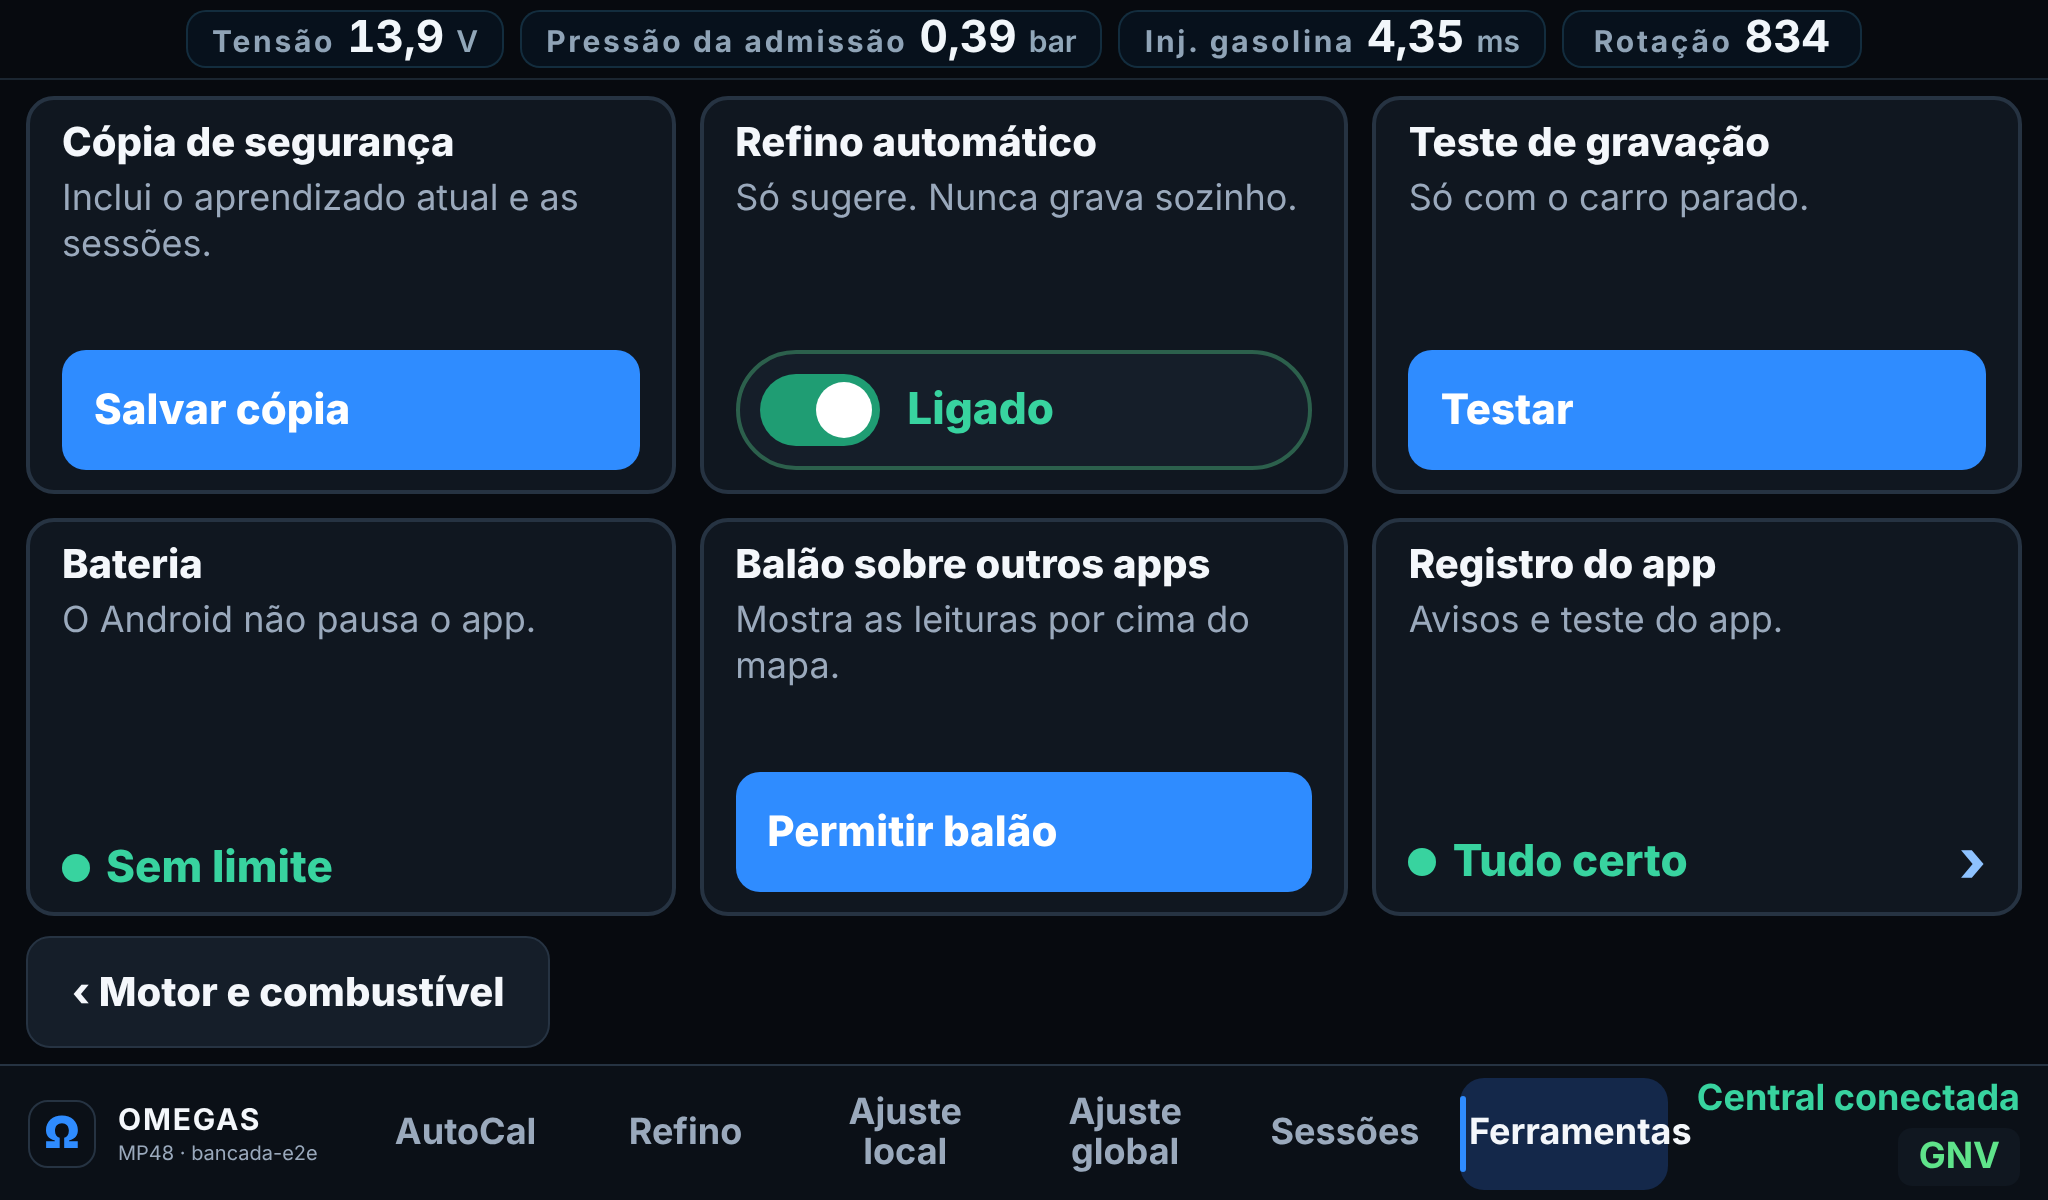
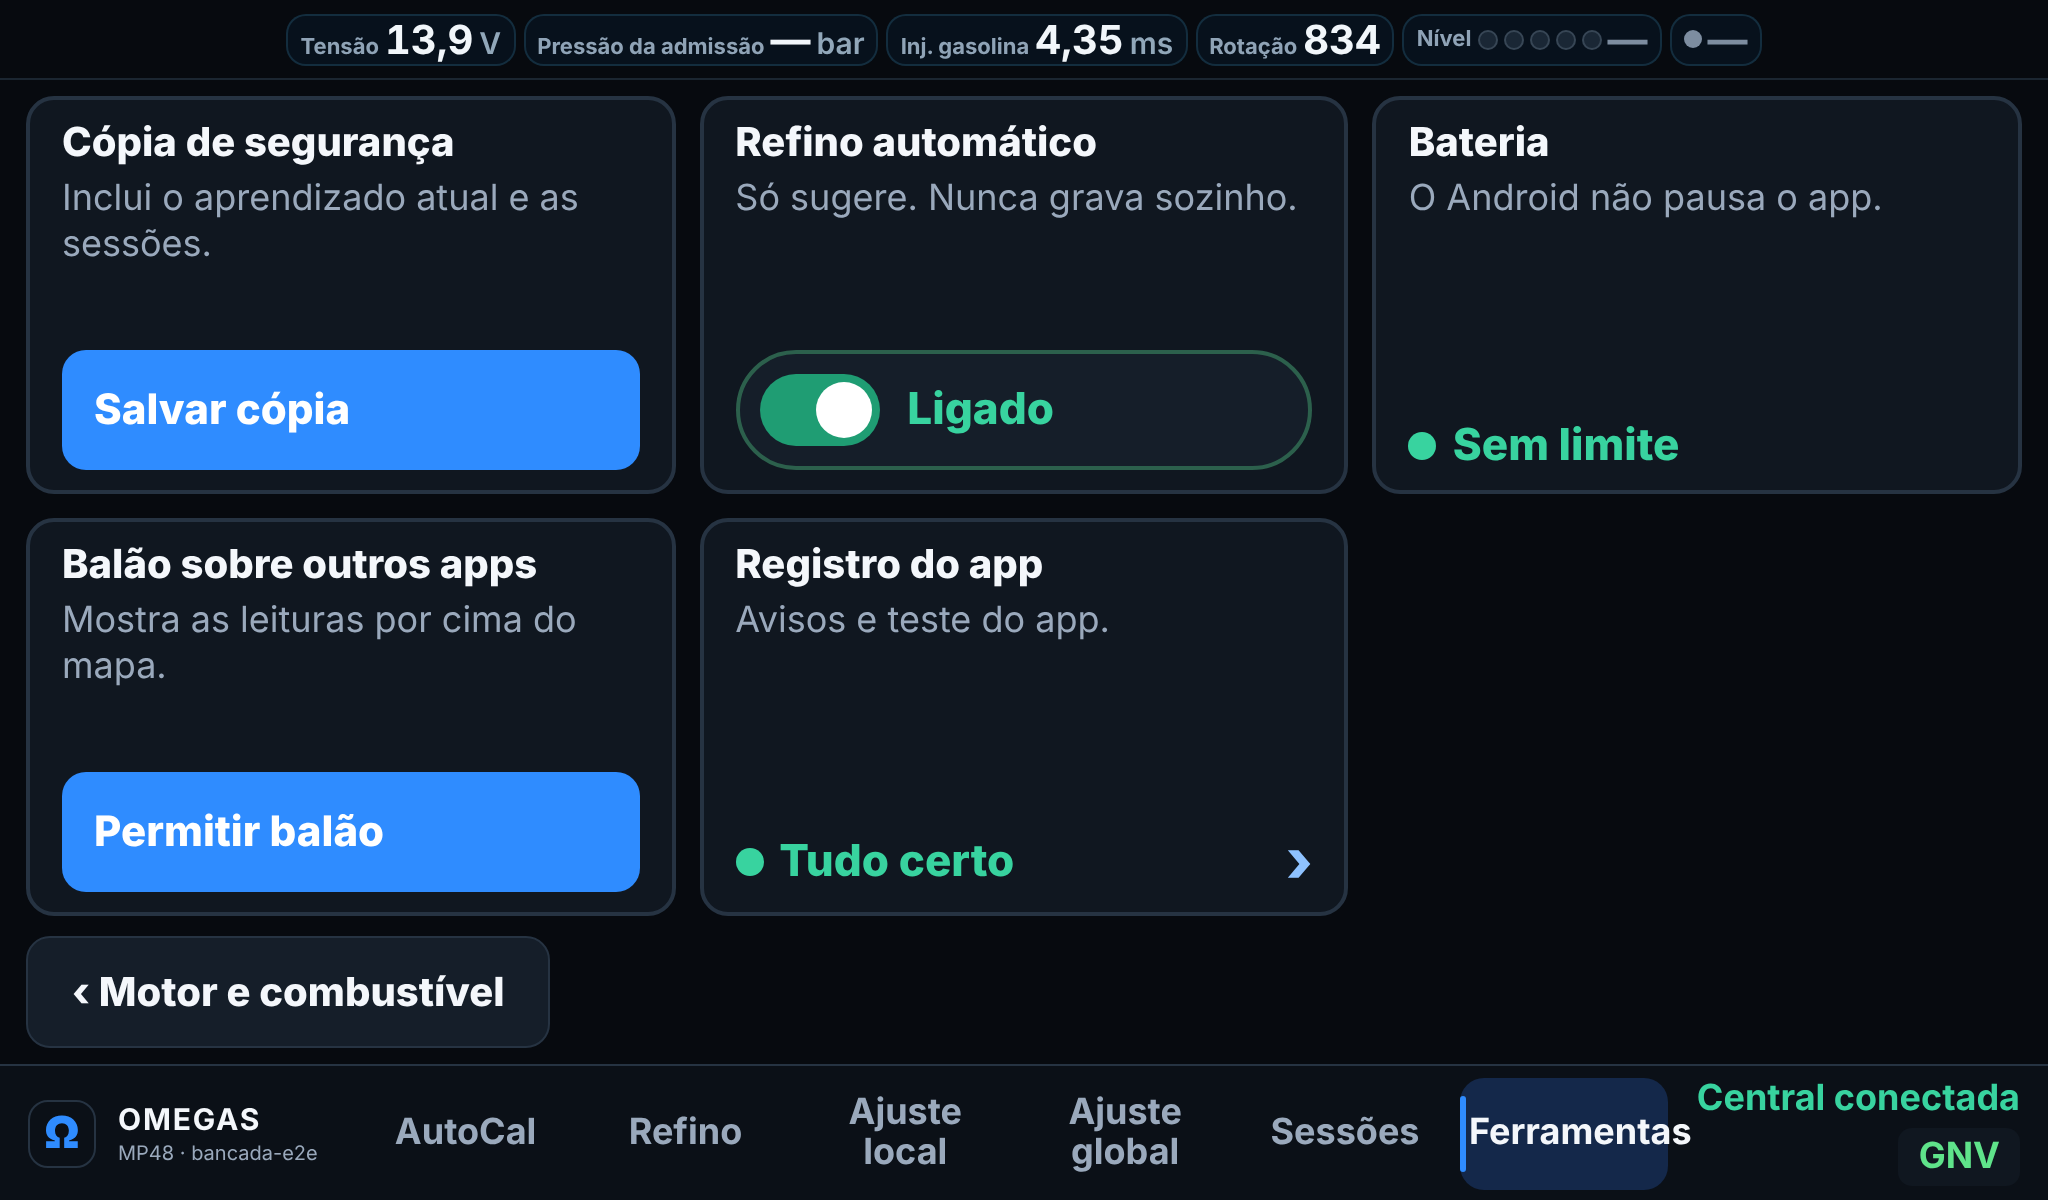
docs: painel da multimidia (Car Info) so leitura, incertezas e leitura de nulo
docs/CAR-INFO.md: o que e lido, o que nao e (nenhuma escrita/TX), o que e
INCERTO (bind no carro, tx 18, campos e unidades do 208) e '—' nunca 0.
Indice em docs/README.md; inventario de tempo (BASE_RETRY_MS = nova
tentativa de servico externo); grafo de producao regenerado.
AGENTS.md sem linha nova: o teste limita o arquivo a 80 linhas.

Claude-Session: https://claude.ai/code/session_01EDhQNfDbKxN4uWNeKUbYcR

diff --git a/docs/CAR-INFO.md b/docs/CAR-INFO.md
@@ -1,0 +1,27 @@
+# Painel da multimídia (Car Info): somente leitura
+
+Fonte opcional e passiva. O app pede à central Android do carro (multimídia, app OEM `com.can.activity`) o painel que ela já recebe da CAN: velocidade, odômetro, rotação, marcha, combustível e consumo. Serve para as sessões terem velocidade e km sem depender de GPS ou OBD. Depois vai alimentar km por tanque e a separação carro andando × parado.
+
+Contrato de origem (engenharia reversa estática): `Taytech-/docs/produto/CONTRATO-ICANBUS.md` (interfaces `ICanUI`, `ICanBus`, `ICanBusListener` e o `DashBoardInfo`).
+
+## O que é lido
+- Ligação: `ComponentName("com.can.activity", "com.can.ui.CanPopWind")`, `BIND_AUTO_CREATE` → `ICanUI.getCanService("CanBusManager")` (tx 1) → `ICanBus.registerListener` (tx 1). No encerramento: `unregisterListener` (tx 2) e `unbindService`.
+- Eventos: `ICanBusListener.onDashBoardInfoChanged` (tx 6). As 17 transações do ouvinte respondem (como o cliente OEM); só a 6 é lida.
+- Foto inicial: `ICanBus.getDashBoardInfo` (tx 18), uma vez por conexão, porque o registro não manda foto.
+- Campos (ordem do contrato): `gearShiftPosition`, `odo`, `cruisingRange`, `rotationRate`, `speed`, `runningTime`, `fuelTankage`, `fuel`, `fuelPercentage`, `avgFuelCont`, `instFuelCont`, `coolantTemp`, `engineOilTemp`, `inletTemp`, `ambientTemp`, `accPedal`, `brakePedal`, `throttlePos`.
+
+Onde aparece: `carinfo` no snapshot completo (`full_snapshot` e exports da sessão) com estado (`enabled`, `connected`, `state`, `lastError`, `samples`, `lastSampleAtMs`) e a última amostra; evento `car_info` na sessão, no máximo 1 por segundo, só com os campos conhecidos. Interruptor: `carInfoEnabled` (ligado por padrão, por ser só leitura); ponte `setCarInfoEnabled`.
+
+## O que NÃO é feito
+- Nenhuma escrita: nada de `setConfig`, `set*Property`, `setCarProperty`, `setDiagnose`, nenhum pacote para a CAN. A ECU do GNV não é tocada por aqui.
+- Nada de `getCarPropValues` (tx 30): no código OEM ele pode transmitir pacotes de consulta na primeira chamada.
+
+## O que é INCERTO
+- **O bind em runtime nunca foi testado no carro.** O código Java do OEM não checa quem chama, mas SELinux, assinatura ou a versão da central podem negar. Falha = estado `indisponivel`, sem travar o app, com nova tentativa espaçada (10 s, 20 s, 40 s... até 10 min).
+- **tx 18 (`getDashBoardInfo`)**: sem efeito colateral visto no código inspecionado, mas não confirmado no carro.
+- **Quais campos o perfil Peugeot 208 preenche** e **as unidades** (velocidade provável km/h, odômetro provável km, rotação provável rpm; consumo e combustível sem unidade certa). Só uma captura com o carro andando responde.
+
+## Como ler `null` / "—"
+A multimídia marca "não sei" com `Integer.MIN_VALUE` (inteiros) e `-2.14748365E9` (decimais). O app transforma isso em `null` no JSON e "—" na tela, **nunca 0**. Um 0 que aparece é 0 de verdade (ex.: pedal de freio solto). `complete: false` = o pacote chegou cortado; os campos que faltaram ficam `null`.
+
+Código: `app/src/main/java/com/omegas/prohub/carinfo/` (decodificador puro, supervisor de estado e cliente do binder). Testes: `DashBoardInfoDecoderTest.kt`, `CarInfoSupervisorTest.kt`, `diagnostics/MinIntervalGateTest.kt`.

diff --git a/docs/grafo/PRODUCAO.md b/docs/grafo/PRODUCAO.md
@@ -3,7 +3,7 @@
 Gerado por `python3 -B tools/grafo_producao.py` (determinístico, sem LLM). Não editar à mão. Dados: `docs/grafo/producao.json`.
 O grafo de PESQUISA (ProgBase/evidências) é outro: `tools/grafo_conhecimento.py`. Ligação por heurística de texto (nome citado).
 
-Nós: aba 9, ev 98, kt 8, ponte 114, teste 392, ui 34. Arestas: chama 108, cobre 668, exibe 35, sustenta 80, usa 14.
+Nós: aba 9, ev 98, kt 8, ponte 115, teste 395, ui 34. Arestas: chama 108, cobre 668, exibe 35, sustenta 80, usa 14.
 
 ## (a) Por aba
 
@@ -28,7 +28,7 @@ Pontes e evidências por aba (amostra):
 
 ## (b) IMPLEMENTADO × FALTA
 
-**IMPLEMENTADO:** 114 pontes, 34 arquivos de UI, 392 testes. Sem rota no app (contrato AGENTS regra 11): Agora, Diagnóstico.
+**IMPLEMENTADO:** 115 pontes, 34 arquivos de UI, 395 testes. Sem rota no app (contrato AGENTS regra 11): Agora, Diagnóstico.
 Lacunas do CATALOGO já resolvidas: #11.
 
 **FALTA — lacunas do original (CATALOGO, 13):**
@@ -70,7 +70,7 @@ ESSENCIAIS (a CI falha se houver; critério no cabeçalho de `tools/grafo_produc
 - E3_ponte_de_escrita_chamada_sem_teste: 0
 
 INFORMATIVOS (só relatam):
-- ponte_sem_teste: 27 — OmegasAutoCal.getRefinedAnalysis, OmegasAutoCal.getRefinementPhase, OmegasAutoCal.getStalls, OmegasAutoCal.setRefinementManual, OmegasNative.getEngineMetrics, OmegasNative.getKFactorHistory …
-- ponte_sem_chamador: 32 — OmegasAutoCal.getBufferWriteProbeStatus, OmegasAutoCal.startBufferWriteProbe, OmegasNative.getEngineMetrics, OmegasNative.getKFactorHistory, OmegasNative.getKFactorStatus, OmegasNative.getKWriteHistory …
+- ponte_sem_teste: 28 — OmegasAutoCal.getRefinedAnalysis, OmegasAutoCal.getRefinementPhase, OmegasAutoCal.getStalls, OmegasAutoCal.setRefinementManual, OmegasNative.getEngineMetrics, OmegasNative.getKFactorHistory …
+- ponte_sem_chamador: 33 — OmegasAutoCal.getBufferWriteProbeStatus, OmegasAutoCal.startBufferWriteProbe, OmegasNative.getEngineMetrics, OmegasNative.getKFactorHistory, OmegasNative.getKFactorStatus, OmegasNative.getKWriteHistory …
 - ui_de_aba_sem_ponte: 11 — live-bar.js, advanced-flags-data.js, cartoes-motor.js, curve-smoothing.js, curve-to-map.js, gasoline-reference.js …
 - evidencia_orfa: 47 — EV-ANTIAPAGAO-011, EV-ANTIAPAGAO-014, EV-ANTIAPAGAO-019, EV-ANTIAPAGAO-020, EV-ANTIAPAGAO-022, EV-ANTIAPAGAO-023 …

diff --git a/docs/handoff/EVENTOS-SEM-TEMPO.md b/docs/handoff/EVENTOS-SEM-TEMPO.md
@@ -59,6 +59,7 @@ Toda constante (ou literal) `Long` comparada num arquivo que lê relógio aparec
 | `RecordingSerialScheduler.kt` `FLUSH_MS` | Exceção: resumo das leituras na trilha da sessão (registro) |
 | `TelemetryForegroundService.kt` `900L` | Exceção: limite de redesenho da notificação (visual) |
 | `TelemetryOverlayController.kt` `250L` | Exceção: limite de redesenho do overlay (visual) |
+| `CarInfoSupervisor.kt` `BASE_RETRY_MS` | Exceção: nova tentativa de ligar ao painel da multimídia (serviço externo indisponível não avisa quando volta); não decide nada do motor nem da ECU |
 | `MotorSampleAnalyzer.kt` `1L` | Não é tempo: contagem de quadros recebidos (falso positivo aceito da varredura) |
 | `NativeAutoCalMonitor.kt` `SESSION_SETTLE_MS` | TEMPO-A-REMOVER (pendente): `NativeAutoCalMonitor.kt:201`, espera 8 s após a sessão antes da primeira sonda. Troca segura: N ticks (cada tick já é 4 quadros válidos); não feita porque `tools/jvm/AquisicaoEmulada.kt` (emulador do monitor real) simula essa espera pelo relógio — precisa ajustar e rodar o emulador junto |
 | `NativeAutoCalRefreshPlanner.kt` `ACQUISITION_INTERVAL_MS` | TEMPO-A-REMOVER (pendente): `NativeAutoCalRefreshPlanner.kt:50`, espelho a 1 Hz das bandas do AutoCal; trocar por "a cada N ticks" |

diff --git a/docs/README.md b/docs/README.md
@@ -14,6 +14,7 @@
 | Estratégia de testes | `TEST_STRATEGY.md` |
 | Modelo de equivalência gasolina x GNV | `MODELO_EQUIVALENCIA_CAUSAL.md` |
 | OBD (somente observação) | `OBD.md` |
+| Painel da multimídia: velocidade, odômetro, rotação (só leitura) | `CAR-INFO.md` |
 | Engenharia reversa do ProgBase original (protocolo, telas, decompilação, evidências, grafo) | `progbase/RETOMAR.md`, `progbase/INDEX.md` |
 | Onde cada fonte (Drive, repo privado, logs) está | `mapa-de-fontes/MAPA.md` |
 | Provas e medições datadas | `evidence/`, `incidents/` |
